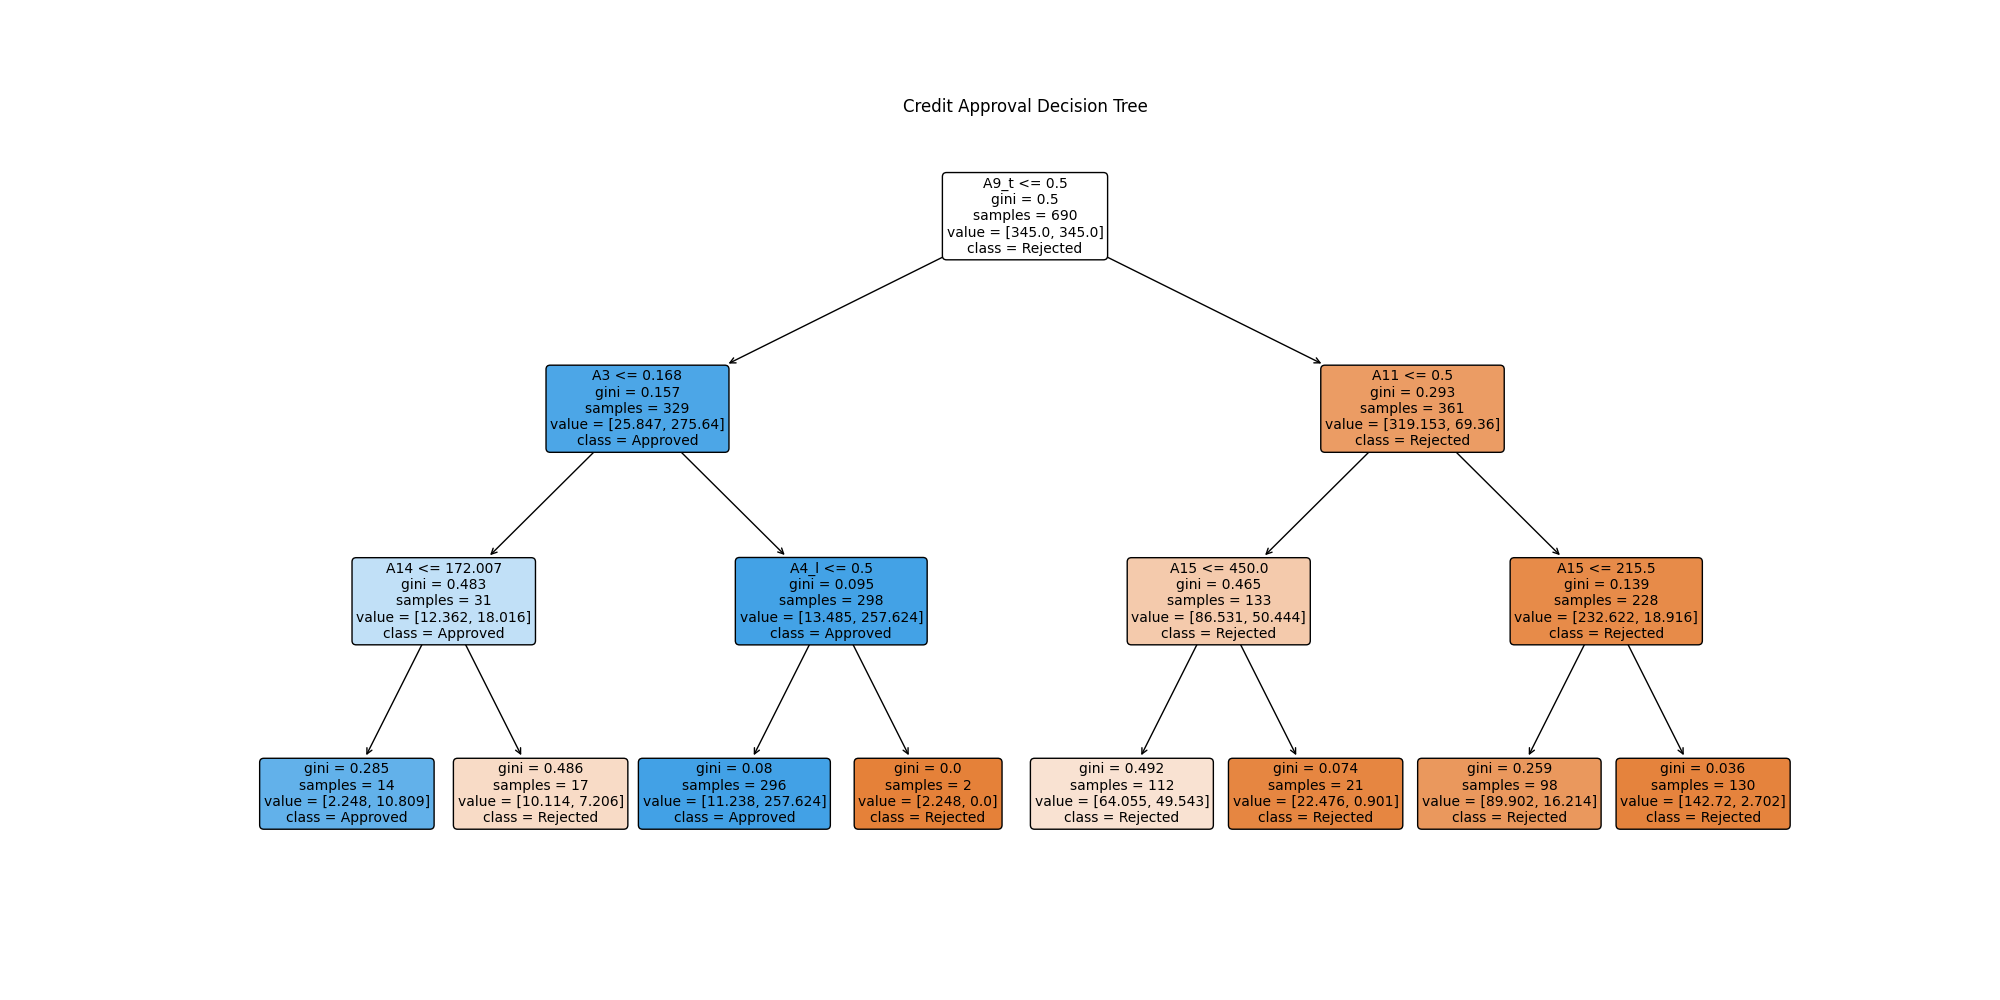
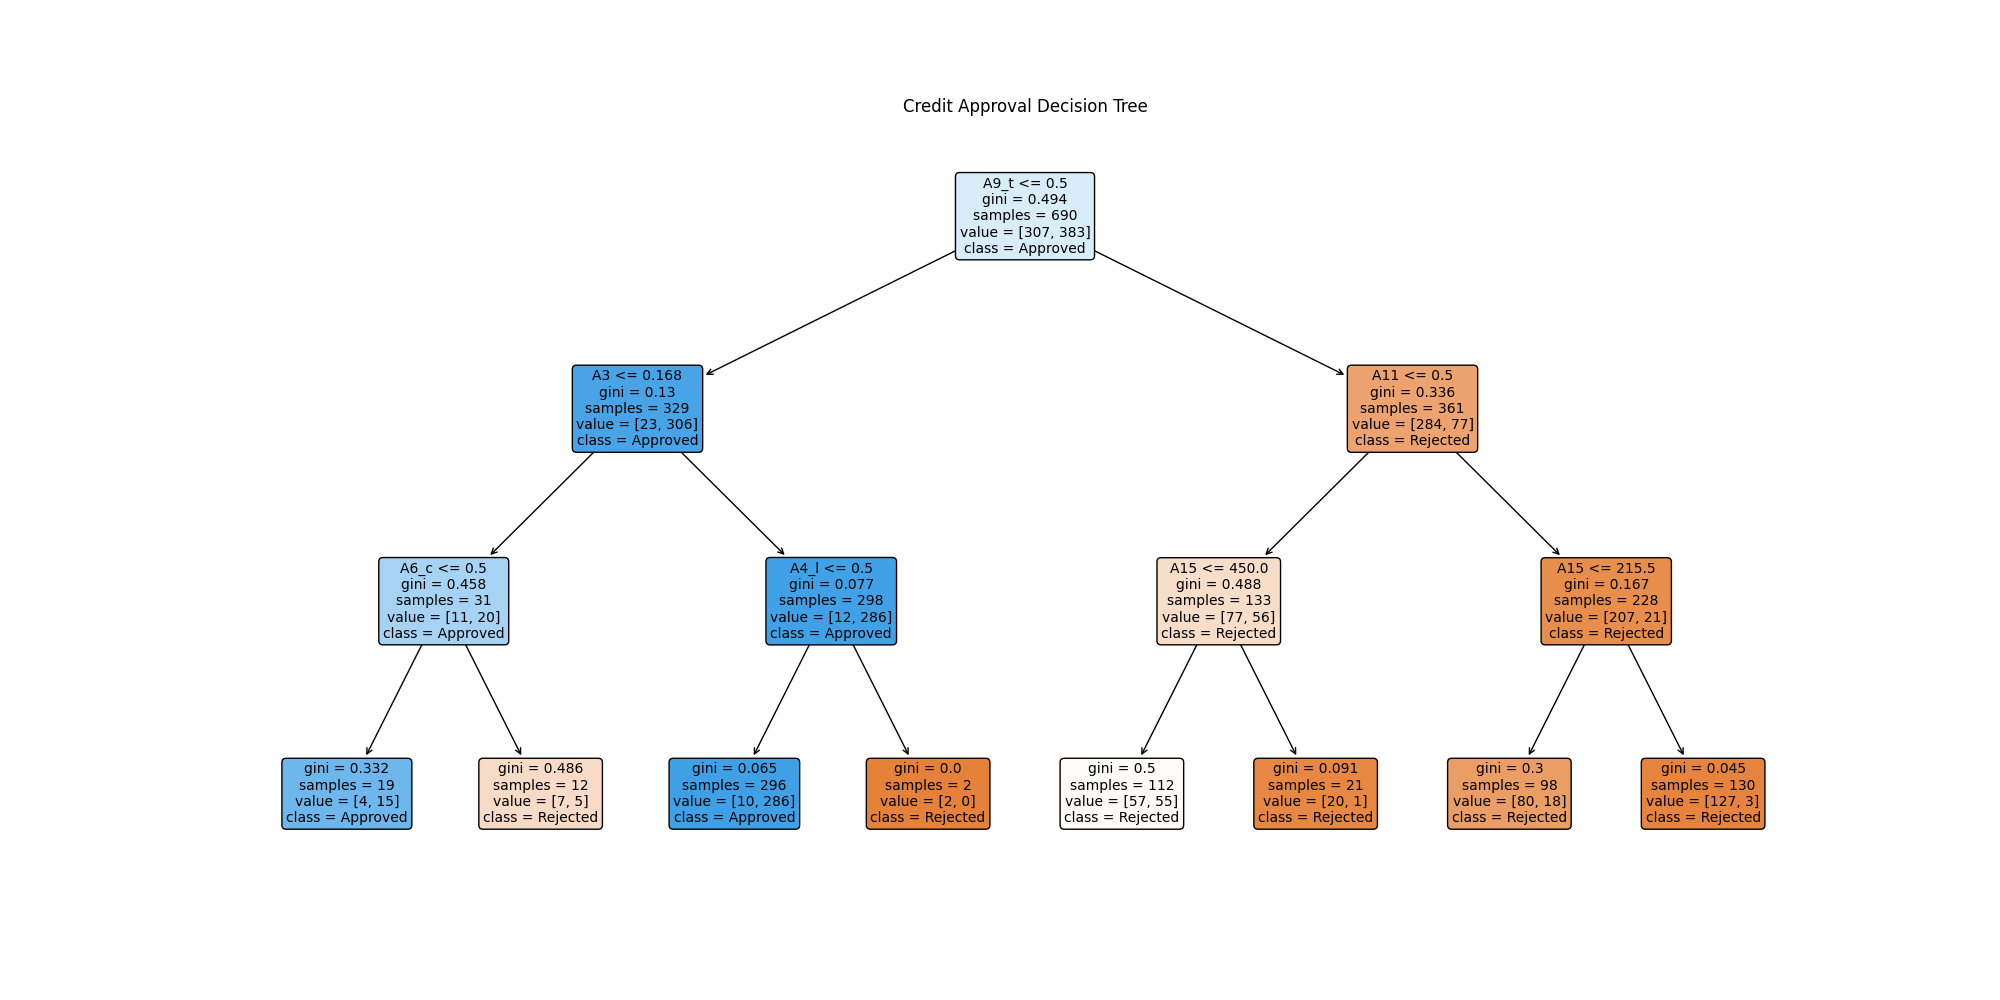
decision tree: switched to stratifiedkfold instead of kfold and imputing strategy is switched to median from mean

diff --git a/Decision Tree/decision_tree.py b/Decision Tree/decision_tree.py
@@ -1,7 +1,7 @@
 import pandas as pd
 import numpy as np
 import matplotlib.pyplot as plt
-from sklearn.model_selection import cross_val_score, KFold
+from sklearn.model_selection import cross_val_score, StratifiedKFold
 from sklearn.tree import DecisionTreeClassifier, plot_tree, export_text
 from sklearn.preprocessing import LabelEncoder
 from sklearn.impute import SimpleImputer
@@ -29,7 +29,7 @@ categorical_features = X.select_dtypes(include=['object']).columns
 
 # Create transformers for imputation and encoding
 # Numeric: Fill missing with Mean
-numeric_transformer = SimpleImputer(strategy='mean')
+numeric_transformer = SimpleImputer(strategy='median')
 
 # Categorical: Fill missing with Mode (most_frequent) AND One-Hot Encode
 categorical_transformer = Pipeline(steps=[
@@ -77,7 +77,7 @@ print(grid_search.best_params_)
 best_model = grid_search.best_estimator_
 
 # Define 5-Fold CV
-kf = KFold(n_splits=5, shuffle=True, random_state=42)
+kf = StratifiedKFold(n_splits=5, shuffle=True, random_state=42)
 
 # Calculate scores
 cv_scores = cross_val_score(best_model, X, y, cv=kf, scoring='accuracy')
